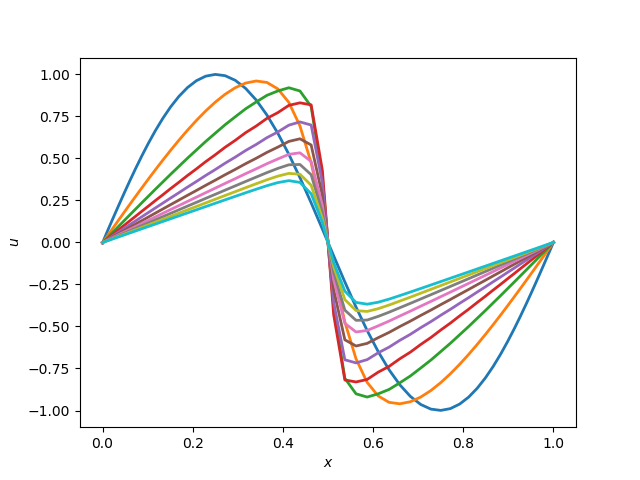
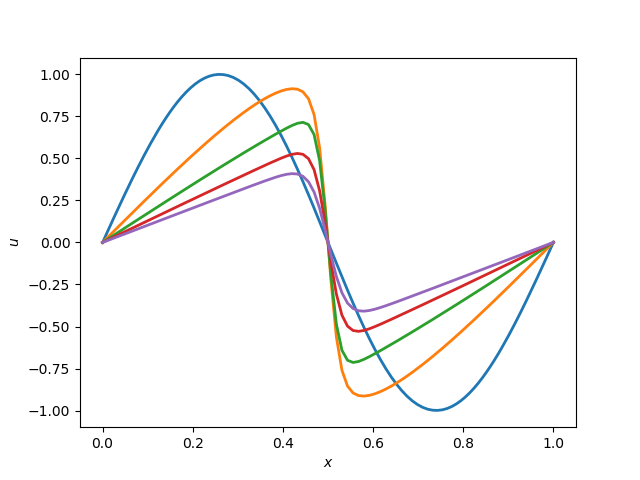
cleaned up codes, wrote better comments

Changed region(s): [[0.1562, 0.1562, 0.875, 0.875]]

diff --git a/python_codes_aghor/visc_burger_fourier_cheb/viscous_Burger_Fourier/burger_fourier_PratikAghor.py b/python_codes_aghor/visc_burger_fourier_cheb/viscous_Burger_Fourier/burger_fourier_PratikAghor.py
@@ -4,6 +4,7 @@ from numpy import pi, cosh, exp, round, zeros, identity, arange, real, cos, sin,
 from numpy.fft import fft,ifft
 from matplotlib.pyplot import figure
 
+import time
 import numpy as np  # Import numpy
 import math
 from numpy.linalg import inv
@@ -27,53 +28,79 @@ Physical coordinates [0, 1]
 # print "x=", x
 
 # Initial condition
-u = sin(xc); 
+u0 = sin(xc);
 
-u_padded = zeros(Nx);
+u0_padded = zeros(Nx); u1_padded = zeros(Nx);
 
 alpha = 1j*k;
-# print "alpha=", alpha
+###########################################
+"""
+Writing some operators for convenience
+D = d/d(xc) operator in Fourier space
+L = linear operator nu*D^2 in Fourier space, diagonal matrix!
+G = -1/2 D operator in Fourier space
+A     = (I - dt/2*L)
+B 	= (I + dt/2*L)
 
-# Writing some operators for convenience
-# # D = d/d(xc) operator in Fourier space
-# L = linear operator nu*D^2 in Fourier space, diagonal matrix!
-# G = -1/2 D operator in Fourier space
+NOTE: Since L is a diagonal matrix, we store A and B as 1d vectors.
 
-D = a*(alpha); 
-L = nu*D*D;                                     
-G = -0.5*D;                                     
+They are actually stand-ins for an (Nx-1) x (Nx-1) diagonal matrices.
 
-# A     = (I - dt/2*L)
+Then the matrix mult B*x becomes element-wise mult for the stored 1d vector.
+"""
+
+D = a*(alpha);
+L = nu*D*D;
+G = -0.5*D;
+
 A_inv = (np.ones(Nx-1) - (1.0-theta)*dt*L)**(-1);
 
 B     = np.ones(Nx-1) + theta*dt*L;
+###########################################
+"""
+writing nonlinear term
+-u u_x (spectral), notation N1 = N^n = N(u(n dt))
+notation N0 = N^{n-1} = N(u((n-1) dt))
 
-# writing nonlinear term 
-#-u u_x (spectral), notation N1 = N^n = N(u(n dt))
-#notation N0 = N^{n-1} = N(u((n-1) dt))
-N1  = G*fft(u*u);                               
-N0 = N1;                                        
-
-# transform u to spectral
-v  = fft(u);                                   
+We initialize with u1 = u0, then the first step in AM2AB2 algorithm
+changes into a CN-Euler step, and from second step, it is AM2AB2 time-marching
+"""
+u1  = u0;
+N0  = G*fft(u0*u0);
+N1 = N0;
 #######################################
-# time marching!
-for n in range (0, Nt):
-    N0 = N1;
-    N1 = G*fft(u*u); # compute N0 = -u u_x
+"""
+time marching!
 
+Given u0 and u1, find u2 and update
 
-    v = A_inv*((B*v) + 1.5*dt*N1 - 0.5*dt*N0);
+v0 and v1 are u0 an u1 in spectral space v0  = fft(u0); v1  = fft(u1);
 
-    u = real(ifft( v ))
-	
-	# write u_padded with the last term = u[0] on Nx grid. for plotting purposes 
-    u_padded[0:Nx-1] = u[0:Nx-1]; 
-    u_padded[Nx-1] = u[0]; 
+"""
+
+t1 = time.time()
+for n in range (0, Nt+1):
+    v0  = fft(u0); v1  = fft(u1);
+    N0  = G*fft(u0*u0); N1 = G*fft(u1*u1);
+
+    v2 = A_inv*((B*v1) + 1.5*dt*N1 - 0.5*dt*N0);
+    u2 = real(ifft( v2 ));
+
+    # write u_padded with the last term = u[0] on Nx grid. for plotting purposes
+    u1_padded[0:Nx-1] = u1[0:Nx-1];
+    u1_padded[Nx-1] = u1[0];
+
     # save data after every nsave steps
     if ((n % nsave) == 0):
         n_str = str(n)
         filename = "u" + n_str
         hf = h5py.File('data/' + filename +'.h5', 'w') # open file in h5 format
-        hf.create_dataset('u(t)', data=u_padded)
+        hf.create_dataset('u(t)', data=u1_padded)
         hf.close()
+
+    # update variables for next time-step
+    u0 = u1;
+    u1 = u2;
+
+t2 = time.time()
+print "time required for Fourier Spectral = ", t2 - t1, '\n'

diff --git a/python_codes_aghor/visc_burger_fourier_cheb/viscous_Burger_Fourier/params.py b/python_codes_aghor/visc_burger_fourier_cheb/viscous_Burger_Fourier/params.py
@@ -4,39 +4,79 @@ import math
 from numpy import pi, cosh, exp, round, zeros, identity, arange, real, cos, sin, multiply, transpose
 
 #######################################
-# define parameters
+"""
+define parameters
 # Grid and required matrices:
 # c stands for computational domain
+"""
 Lx = 1.0;
 xc_min = 0;
 xc_max = 2*pi;
+#######################################
+"""
+x is the Physical domain [0, 1)
+xc is the computational domain [0, 2\pi)
 
-# xc = ax + b
+NOTE: We do not include the last point here, because periodic BC's are assumed.
+Also, fft assumes periodic BC's and it would be erroneous to do the calculation
+inclding the last point.
 
+While saving and plotting, I pad up the solution as well as get the x_padded, in
+order to get the solution on the whole domain [0, 1]
+
+xc = ax + b
+"""
 a = xc_max - xc_min;
 b = xc_min;
+#######################################
+"""
+nsave: save data after nsave timesteps
+Nt   : # of timesteps
+nu   : viscosity
+dt   : time-step
 
+theta : weight to the current time-step value for the linear operator.
+if theta = 0 => implicit, if theta = 1 => explicit, theta = 0.5 => AM2
+here, theta = 0.5 is used.
+"""
 
-nsave = 50; # save after nsave timesteps
-Nt = 500; # # of timesteps
-nu = 0.01; # viscosity
-# theta = 0 => implicit, theta = 1 =>explicit, theta = 0.5 => AM2
-theta = 0.5; # weight to the current time-step value for the linear operator.
+Nt = 100;
+nsave = Nt/5;
+nu = 0.01;
+theta = 0.5;
+dt = 0.01;
+#######################################
+"""
+Nx : # of grid points
 
-Nx = 32;
+dxc = dx on the computational grid [0, 2\pi)
+
+_padded is used for saving and plotting
+
+kx is the one with uneven distribution of wave-numbers,
+for example, for Nx = 8,
+
+kx = [0, 1 , 2, 3, 4, -3, -2, -1]
+To make it balanced (see blog for more discussion on this),
+we zero-out the highest mode:
+
+Hence kx = [0, 1, 2, 3, 0, -3, -2, -1]
+
+However, since we have periodic BC's assumed and we are neglecting the last grid
+point, we want an (Nx-1) sized kvector
+
+Therefore, k = [0, 1, 2, 3, -3, -2, -1].
+"""
+Nx = 128;
 
 dxc = (xc_max-xc_min)/(Nx-1)
 
-dt = 0.002;
-
 xc = arange(xc_min, xc_max, dxc)
-# xc = np.linspace(xc_min, xc_max-dxc, Nx)
 
-print "xc = \n", xc
 x = (xc - b*np.ones(Nx-1))/a;
 
-# _padded for plotting
-xc_padded = arange(xc_min, xc_max+dxc, dxc) 
+
+xc_padded = arange(xc_min, xc_max+dxc, dxc)
 x_padded = (xc_padded - b*np.ones(Nx))/a;
 
 kx = zeros(Nx);

diff --git a/python_codes_aghor/visc_burger_fourier_cheb/viscous_Burger_Cheb/params.py b/python_codes_aghor/visc_burger_fourier_cheb/viscous_Burger_Cheb/params.py
@@ -4,26 +4,51 @@ import math
 import cheb
 from cheb import *
 #######################################
-# define parameters
+#######################################
+"""
+define parameters
 # Grid and required matrices:
 # c stands for computational domain
+"""
 Lx = 1.0;
 xc_min = -1.0;
 xc_max = 1.0;
+#######################################
+"""
+x is the Physical domain [0, 1)
+xc is the computational domain [-1, 1]
 
-# xc = ax + b
+xc = ax + b
+"""
 
 a = xc_max - xc_min;
 b = xc_min;
 
 
-nsave = 50; # save after nsave timesteps
-Nt = 500; # # of timesteps
-nu = 0.01; # viscosity
+#######################################
+"""
+nsave: save data after nsave timesteps
+Nt   : # of timesteps
+nu   : viscosity
+dt   : time-step
+"""
 
-Nx = 63;
+Nt = 100;
+nsave = Nt/5;
+nu = 0.01;
+dt = 0.01;
+#######################################
+"""
+Nx = # of grid points (kind of)
 
-dt = 0.002;
+For given Nx, the Gauss-Lobatto grid will be consist of (Nx+1) points.
+
+D is the Chebyeshev differentiation matrix defined on xc in [-1, 1].
+
+Finally, we can get back to the physical grid by inverting the relation between
+x and xc to have: x = (xc - b)/ a .
+"""
+Nx = 127;
 
 D, xc = cheb(Nx);
 # print "xc = \n", xc

diff --git a/python_codes_aghor/visc_burger_fourier_cheb/spectral_Burger_blog/spectral_blog_PratikAghor.tex b/python_codes_aghor/visc_burger_fourier_cheb/spectral_Burger_blog/spectral_blog_PratikAghor.tex
@@ -179,6 +179,8 @@ $\bar{k} = [0, 1, 2, 3, 4, -3, -2, -1]$. There is an obvious asymmetry apparent 
 From the analysis done in class, we know that the convergence of Fourier spectral method is faster than any algebraic power of $1/N$ (exponential convergence), especially with periodic BC's.
 
 Hence, if we keep enough modes, we can zero-out the highest mode as the coefficients in the expansion of $u$ will drop off fast enough. This way, we keep the $\bar{k}$ symmetric in terms of positive and negative modes present and take $\bar{k} = [0, 1, 2, ..., (N/2)-1, 0, (-N/2)+1, ..., -1]$.
+
+However, because fft assumes periodic BC's we do the calculation on $(N-1)$ grid points where $x_{c} = [0, 2\pi)$, excluding the last grid point. Hence we use $\bar{k} = [0, 1, 2, ..., (N/2)-1, (-N/2)+1, ..., -1]$ in these calculations, removing the redundant higher mode, maintaining the symmetry and $(N-1)$ modes! We pad up the results by writing $u[N-1] = u[0]$, in order to plot the results on the full domain, with the last point included.  
 %-------------------------------------------------------------------
 \subsection{Results}
 %-------------------------------------------------------------------

diff --git a/python_codes_aghor/visc_burger_fourier_cheb/viscous_Burger_Fourier/test_fft.py b/python_codes_aghor/visc_burger_fourier_cheb/viscous_Burger_Fourier/test_fft.py
@@ -32,15 +32,14 @@ dx = 1.0 / (Nx-1);
 xc = (1.0*Lx/Nx)*arange(0, Nx);
 print"xc = \n", xc
 
-samplingFreq = dx;
-# u = sin(xc); # Initial condition
-# print "u = sin(xc) \n"
+u = sin(xc); # Initial condition
+print "u = sin(xc) \n"
 
 # u = cos(xc); # Initial condition
 # print "u = cos(xc) \n"
 
-u = 2.0*sin(xc) + sin(3.0*xc); # Initial condition
-print "u = 2.0*sin(xc) + sin(3.0*xc) \n"
+#u = 2.0*sin(xc) + sin(3.0*xc); # Initial condition
+#print "u = 2.0*sin(xc) + sin(3.0*xc) \n"
 
 print "N = ", Nx, "\n"
 
@@ -48,9 +47,9 @@ print "N = ", Nx, "\n"
 v = fft(u)/len(u); # normalized fft
 
 # if abs(value) < tol, set it to zero
-tol = 1e-10
-v.real[abs(v.real) < tol] = 0.0
-v.imag[abs(v.imag) < tol] = 0.0
+#tol = 1e-10
+#v.real[abs(v.real) < tol] = 0.0
+#v.imag[abs(v.imag) < tol] = 0.0
 
 # v = v[range(int(len(u)/2))] # Exclude sampling frequency
 

diff --git a/python_codes_aghor/visc_burger_fourier_cheb/viscous_Burger_Cheb/burger_cheb_PratikAghor.py b/python_codes_aghor/visc_burger_fourier_cheb/viscous_Burger_Cheb/burger_cheb_PratikAghor.py
@@ -4,6 +4,7 @@ from numpy.fft import fft,ifft
 from matplotlib.pyplot import figure
 
 import numpy as np  # Import numpy
+import time
 import math
 from numpy.linalg import inv
 import h5py # for saving data
@@ -42,6 +43,8 @@ A[0, 0] = 1.0; A[0, 1:-1] = 0.0;
 A[Nx, 0:Nx-1] = 0.0; A[Nx, Nx] = 1.0;
 #######################################
 # time marching!
+
+t1 = time.time()
 for n in range (0, Nt):
 
     u0_sq = np.multiply(u0, u0);
@@ -70,4 +73,9 @@ for n in range (0, Nt):
         hf = h5py.File('data/' + filename +'.h5', 'w') # open file in h5 format
         hf.create_dataset('u(t)', data=u1)
         hf.close()
+#######################################
+t2 = time.time()
+
+print "time for Cheb spectral = ", t2 - t1, '\n'
+
 #######################################

diff --git a/python_codes_aghor/visc_burger_fourier_cheb/viscous_Burger_Fourier/post_process.py b/python_codes_aghor/visc_burger_fourier_cheb/viscous_Burger_Fourier/post_process.py
@@ -16,7 +16,7 @@ post-process AM2AB2 Burger's data
 fig = plt.figure(1)  # Create a figure instance
 ax = fig.gca()
 
-for n in range(0, Nt):
+for n in range(0, Nt+1):
     # read data
     if ((n % nsave) == 0):
 

diff --git a/python_codes_aghor/visc_burger_fourier_cheb/viscous_Burger_Fourier/README.md b/python_codes_aghor/visc_burger_fourier_cheb/viscous_Burger_Fourier/README.md
@@ -1,9 +1,9 @@
 # 1d Viscous Burger's Equation using Fourier Spectral Method
 ## Author: Pratik Aghor
 
-* Time marching 1d viscous Burger's equation using Chebyshev spectral method
+* Time marching 1d viscous Burger's equation using Fourier spectral method
 * In order to run the codes, please do ```bash build.sh```
-* In order to run the test for ```cheb.py```, please do ```bash build_test.sh```
+* In order to run the test for ```test_fft.py```, please do ```bash build_test.sh```
 
 ### Files and usage 
 
